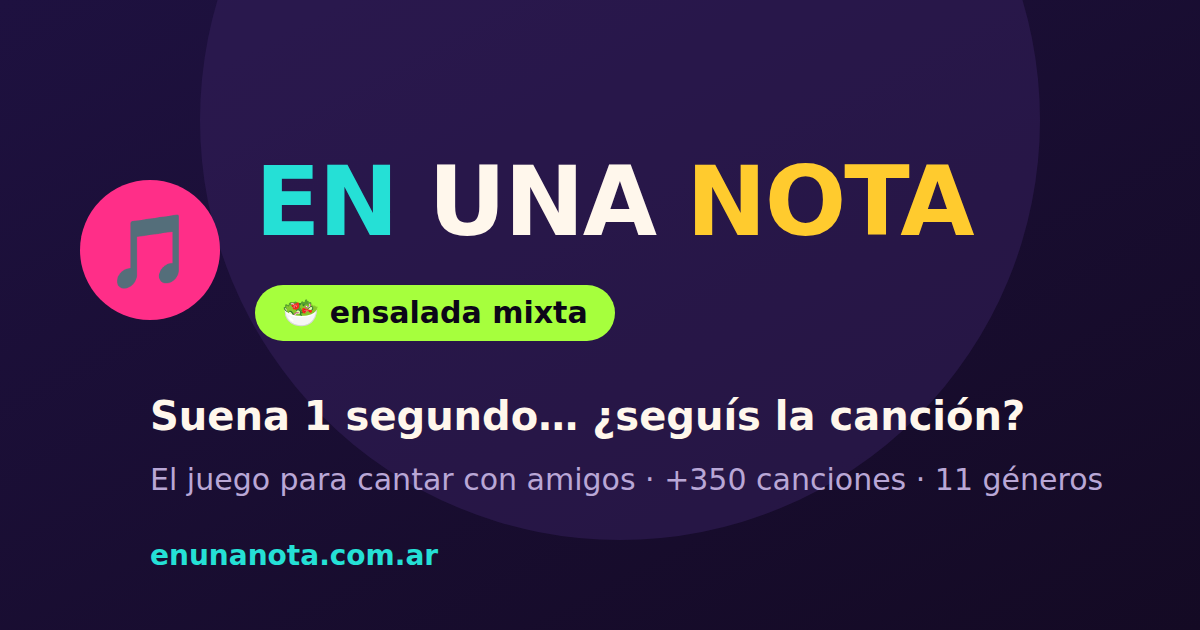
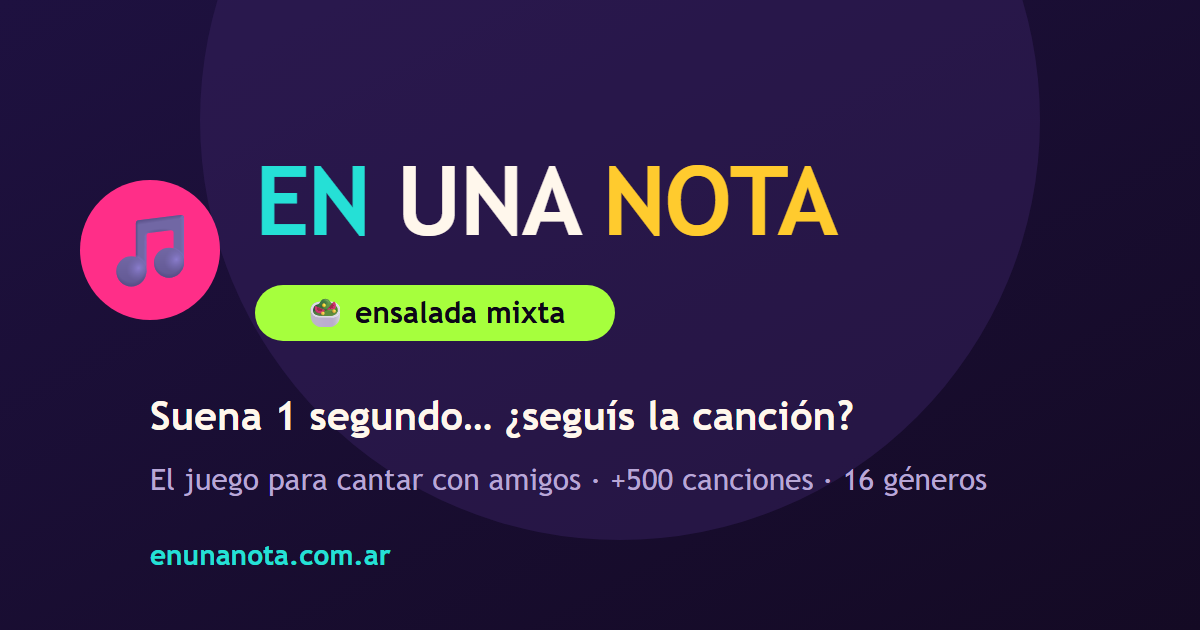
Sumar cinco playlists: Infantiles, Pop Nacional, Boy Bands, Cachengue y K-Pop
Pasan de 11 a 16 géneros y de +350 a +500 canciones. Se actualizan los
números en el README, las meta y los datos estructurados, las preguntas
frecuentes y la imagen de OpenGraph.

diff --git a/src/data.js b/src/data.js
@@ -377,4 +377,171 @@ export const GENRES = [
     ["Que Nadie Sepa Mi Sufrir","Soledad","0xdW1qC-2vg"],
     ["La Nochera","Los Chalchaleros","SP0h7ZmjeGQ"],
   ]},
+  { id:"infantiles", name:"Infantiles", em:"🧸", songs:[
+    ["Manuelita","María Elena Walsh","D4HchTy42_c"],
+    ["El Reino del Revés","María Elena Walsh","6wNtrOSvSqg"],
+    ["La vaca estudiosa","María Elena Walsh","Mt_GHyfq2wY"],
+    ["Canción del jacarandá","María Elena Walsh","qBuV_EzjRCI"],
+    ["La reina Batata","María Elena Walsh","5okeTCGhad8"],
+    ["En el país de Nomeacuerdo","María Elena Walsh","Re0qOc06ji4"],
+    ["Twist del Mono Liso","María Elena Walsh","iVsdJ6SMWlI"],
+    ["Canción de tomar el té","María Elena Walsh","Cx1vGU-utT4"],
+    ["El pulpo cocinero","Canticuénticos","4g3Zj-rvv4k"],
+    ["Cumbia del monstruo","Canticuénticos","TqtL_r-7LAI"],
+    ["Va a llover","Canticuénticos","op5XHJdBIwg"],
+    ["Chu chu ua","Piñón Fijo","VsDD-AAUwS0"],
+    ["Vocales que son cinco","Piñón Fijo","mwMbNsRZS_I"],
+    ["Me muevo para aquí","Diego Topa","BBEMtbfvUV8"],
+    ["El sapo no se lava el pie","El Payaso Plim Plim","OpBKfxvidyM"],
+    ["Ilarié","Xuxa","KxbjOuRJeWc"],
+    ["Cumpleaños feliz","Parchís","wGpJ9xv7LwY"],
+    ["Hola don Pepito, hola don José","Gaby, Fofó y Miliki","1zaCmh4DwhQ"],
+    ["Había una vez un circo","Gaby, Fofó y Miliki","7TxjX3oGI_M"],
+    ["La gallina Turuleca","Gaby, Fofó y Miliki","ybF3IVbV1tc"],
+    ["La vaca Lola","La Granja de Zenón","4PXoKuXAWFI"],
+    ["El pollito pío","Pulcino Pio","57exIXuPdtY"],
+    ["Soy una taza","CantaJuego","wXnNJvyYjrM"],
+    ["La vecindad del Chavo","El Chavo del 8","0AR-OIbxrUQ"],
+    ["Cha-La Head-Cha-La (Dragon Ball Z)","Adrián Barba","cslLhxL61vg"],
+    ["Tema de Pokémon (¡Atrápalos ya!)","Pokémon","YlR3FiXp99k"],
+    ["Te quiero yo","Barney","V24UKLTQ2HQ"],
+    ["Los opuestos","Pim Pau","M49tP6T1eMw"],
+    ["Juguemos en el bosque","El Payaso Plim Plim","-sdV9uESOlU"],
+    ["Susanita","Miliki","fOOEu9ym90E"],
+  ]},
+  { id:"popnac", name:"Pop Nacional 🇦🇷", em:"💿", songs:[
+    ["Don","Miranda!","32DOcN9A0TQ"],
+    ["Yo te diré","Miranda!","AQRFs-JttnM"],
+    ["Perfecta","Miranda!","x432t2voAXw"],
+    ["Tu misterioso alguien","Miranda!","yfzp3LplRew"],
+    ["Ciudad mágica","Tan Biónica","0d_yokJsjCY"],
+    ["Beautiful","Tan Biónica","ywyFAmrpKMw"],
+    ["Obsesionario en La mayor","Tan Biónica","t-siIWTtTdU"],
+    ["La melodía de Dios","Tan Biónica","jgNRKk_MWm0"],
+    ["Oncemil","Abel Pintos","NKG-8HY2GVA"],
+    ["Sin principio ni final","Abel Pintos","amHpLT0xCzg"],
+    ["Motivos","Abel Pintos","x_ZOACDZlYQ"],
+    ["Amo","Axel","zSebyN0EZD0"],
+    ["Te voy a amar","Axel","KJC3TGwG8jw"],
+    ["Como tú","Luciano Pereyra","rlH_d0HZJv0"],
+    ["Enséñame a vivir sin ti","Luciano Pereyra","plf48mLqdJs"],
+    ["Nada fue un error","Coti ft. Andrés Calamaro","f3odw15MsJI"],
+    ["Antes que ver el sol","Coti ft. Dani Martín","3Jhfbvqzhg0"],
+    ["Andando","Diego Torres","zLk6rTUZJEs"],
+    ["Sueños","Diego Torres","ijy3TmMq6uk"],
+    ["Tratar de estar mejor","Diego Torres","v59rGCGtVnw"],
+    ["Cambio dolor","Natalia Oreiro","-LjoWL1MxyY"],
+    ["Tu veneno","Natalia Oreiro","qtQOnmfSRsY"],
+    ["Me muero de amor","Natalia Oreiro","7BzaxvScaMY"],
+    ["Guapas","Bandana","fxKZVGY-t3w"],
+    ["Llega la noche","Bandana","eJI0nlU9py8"],
+    ["Sweet Baby","Erreway","N_gvxYNAawY"],
+    ["Vamos al cielo","Erreway","16ZGFo-LBso"],
+    ["A bailar","Lali","uWam5F0n10k"],
+    ["Mil años luz","Lali","F_XG7-HHWqA"],
+    ["Disciplina","Lali","eU6Klg29lC4"],
+    ["Cupido","TINI","BjmYyub5J8k"],
+    ["Todo a pulmón","Alejandro Lerner","yB557r_ESTU"],
+    ["Me das cada día más","Valeria Lynch","QQpV1g2-Qns"],
+    ["La fuerza del engaño","Marcela Morelo","j4YHwiIAe8o"],
+  ]},
+  { id:"boybands", name:"Boy Bands y Pop 2000s", em:"🕺", songs:[
+    ["Everybody (Backstreet's Back)","Backstreet Boys","J47YIH1XCGE"],
+    ["As Long as You Love Me","Backstreet Boys","m8_t0L_CtVU"],
+    ["Larger than Life","Backstreet Boys","pjvQZzkeI_o"],
+    ["Bye Bye Bye","*NSYNC","fxHjlCBHuzA"],
+    ["It's Gonna Be Me","*NSYNC","dyDBxOiR4dc"],
+    ["...Baby One More Time","Britney Spears","ZXhrv3WL4X4"],
+    ["Oops!... I Did It Again","Britney Spears","wsHbHR3Os6U"],
+    ["Toxic","Britney Spears","tVdr_JWmnsA"],
+    ["Wannabe","Spice Girls","tscL_I2v7pU"],
+    ["Genie in a Bottle","Christina Aguilera","yz4me7Vwr1w"],
+    ["Burnin' Up","Jonas Brothers","SPGMAjkOsLg"],
+    ["The Best of Both Worlds","Hannah Montana","pAWseFS4eAk"],
+    ["Breaking Free","High School Musical","08NXKsXK7XU"],
+    ["We're All in This Together","High School Musical","Bz73c8rz4QA"],
+    ["Complicated","Avril Lavigne","DTtb9rt1tnk"],
+    ["Girlfriend","Avril Lavigne","g0TiuFwX0r8"],
+    ["Sk8er Boi","Avril Lavigne","UYocLBXr7hQ"],
+    ["What Makes You Beautiful","One Direction","d57qSDCxVA4"],
+    ["Story of My Life","One Direction","8M3Vlnu_i3c"],
+    ["Barbie Girl","Aqua","77zog6Up_Yg"],
+    ["Party in the U.S.A.","Miley Cyrus","7ARXrfGbQaI"],
+    ["Baby","Justin Bieber","GqWYJT-iMTw"],
+    ["Hot n Cold","Katy Perry","C-jAPrdc3PI"],
+    ["Poker Face","Lady Gaga","oG-4Uvhm4lI"],
+    ["I Gotta Feeling","Black Eyed Peas","Wnn6M1nNiKQ"],
+    ["Since U Been Gone","Kelly Clarkson","p0BiGek2bKA"],
+    ["Umbrella","Rihanna","xXD5tltX9Pg"],
+    ["Beautiful Soul","Jesse McCartney","gFP0m8pRtRs"],
+    ["Don't Cha","The Pussycat Dolls ft. Busta Rhymes","0IGdk5Xr4vc"],
+    ["My Love","Westlife","vKwowKeEv5w"],
+    ["Come Clean","Hilary Duff","RDLNmailOwI"],
+    ["Say My Name","Destiny's Child","KzMw3Pp0aqg"],
+    ["Boom, Boom, Boom, Boom!!","Vengaboys","gM65SDMiXBE"],
+  ]},
+  { id:"cachengue", name:"Cachengue y RKT", em:"🔊", songs:[
+    ["L-Gante: BZRP #38","Bizarrap","b-mUsAXh6wI"],
+    ["Malianteo 420","L-Gante","LWXv8qSV4Ow"],
+    ["Una foto (Remix)","Mesita, Nicki Nicole, Tiago PZK, Emilia","9C5JPrN5xQY"],
+    ["Tamo chelo","El Noba","0sBPRJ5GHuM"],
+    ["Butakera","La Joaqui, Alan Gomez, El Noba","iGwJ8TytOAU"],
+    ["PICA","El Noba, La Joaqui","dP-5w3vnoaU"],
+    ["Pa' la Selección","La T y La M","gCVqd5R5ZwU"],
+    ["Amor de vago","La T y La M, Malandro","MDbwr3YtTZc"],
+    ["Tu jardín con enanitos","Roze, Max Carra, Valen, Ramky","ZsSi6FHxY8Q"],
+    ["Turreo Sessions #5","DJ Tao, Kaleb Di Masi","WXJKabqqxOY"],
+    ["Turreo Sessions #7","DJ Tao, El Noba","oQTBi-f3ofw"],
+    ["Turreo Sessions #22","DJ Tao, Roze","6nXMYkyl2wM"],
+    ["Tirate un paso","Los Wachiturros","9iKe5EwLrDo"],
+    ["Bailan rochas y chetas","Nene Malo","ebmes8Ci7_0"],
+    ["Amigos con derecho","Nene Malo","ow6kBjytnMI"],
+    ["Mi nena Facebook","Los Nota Lokos","TTVaU8fOWc8"],
+    ["Wanda Nara","La Joaqui, Martín Vegas","Ccu3QU2Mg6g"],
+    ["Te vi","La Joaqui, Callejero Fino","DO0FYwe86D4"],
+    ["Saveiro","Perro Primo, La Joaqui, DT.Bilardo","Nh7bb55tZQU"],
+    ["¿Y pa la wacha loca?","Gusty DJ, La Joaqui, L-Gante","gnMw8MSmwKs"],
+    ["Uno más uno (Remix)","L-Gante, Seba TC, DT.Bilardo","GMYqHRFfNbM"],
+    ["Yendo no, llegando","Perro Primo, El Noba","UWXgK-l0bag"],
+    ["Dubai","Mesita","aelBPjXExIs"],
+    ["Que se mueran los feos","Mala Fama","PSLDJf4wkRM"],
+    ["Llegamos los Pibes Chorros","Pibes Chorros","vmMu1pBYUCk"],
+    ["Bar","TINI, L-Gante","uWb2EtOFEBM"],
+    ["Cumbia piola","El Noba","QLCnTO2Qj-c"],
+    ["Hoy juega la Argentina","La T y La M","j0ZgqLeye2I"],
+  ]},
+  { id:"kpop", name:"K-Pop 🇰🇷", em:"💜", songs:[
+    ["Dynamite","BTS","HaEYUJ2aRHs"],
+    ["Butter","BTS","NNCBq0JHXsU"],
+    ["Boy With Luv","BTS","Q-erYa8cwnc"],
+    ["DNA","BTS","IfemyZEhfpY"],
+    ["Fake Love","BTS","NT8ePWlgx_Y"],
+    ["DDU-DU DDU-DU","BLACKPINK","IPzouyj7FLA"],
+    ["How You Like That","BLACKPINK","8mA6jIeojnk"],
+    ["Kill This Love","BLACKPINK","z7e54L8usac"],
+    ["Pink Venom","BLACKPINK","4N15045PHEA"],
+    ["Gangnam Style","PSY","4AgDYTuZWOw"],
+    ["Fantastic Baby","BIGBANG","oM4KBLQRCM8"],
+    ["Gee","Girls' Generation","qizghQs4K6E"],
+    ["TT","TWICE","___h2czNhe0"],
+    ["Fancy","TWICE","j4OrZV_GAsI"],
+    ["Love Shot","EXO","KmRqHwJrTKQ"],
+    ["God's Menu","Stray Kids","GyCAzYm1zvk"],
+    ["MANIAC","Stray Kids","VG4lpTHuytc"],
+    ["Hype Boy","NewJeans","ghrlZIMDzbM"],
+    ["Super Shy","NewJeans","0c7zGU2C2mM"],
+    ["Red Flavor","Red Velvet","BLavT7w4R9I"],
+    ["Psycho","Red Velvet","PyyT5tHbOLw"],
+    ["Next Level","aespa","tkzYyEp4zB4"],
+    ["Supernova","aespa","LCIs3JXb5Aw"],
+    ["Dalla Dalla","ITZY","miqQAzOXPBo"],
+    ["Love Dive","IVE","hh5GKVa8VtM"],
+    ["Antifragile","LE SSERAFIM","SZiwpL62to8"],
+    ["Tomboy","(G)I-DLE","aFoqCI75WoY"],
+    ["Seven","Jungkook ft. Latto","Vs64cZbeY88"],
+    ["APT.","ROSÉ, Bruno Mars","DiTd771WumE"],
+    ["Money","LISA","4YSHPGn9-LM"],
+    ["Very Nice","SEVENTEEN","s3CjsNjiKyc"],
+    ["Like Crazy","Jimin","5lpppPsc2n4"],
+  ]},
 ];

diff --git a/index.html b/index.html
@@ -6,7 +6,7 @@
        seguros (muesca y barra de gestos) con env(safe-area-inset-*) -->
   <meta name="viewport" content="width=device-width, initial-scale=1, viewport-fit=cover" />
   <title>En una nota · Ensalada mixta — juego para cantar con amigos</title>
-  <meta name="description" content="Juego gratis para cantar con amigos: suena un segundo de una canción al azar, se corta y tenés que seguir cantando la que sigue. Más de 350 canciones en 11 géneros (rock, cumbia, pop, folklore y más)." />
+  <meta name="description" content="Juego gratis para cantar con amigos: suena un segundo de una canción al azar, se corta y tenés que seguir cantando la que sigue. Más de 500 canciones en 16 géneros (rock, cumbia, pop, RKT, K-pop, infantiles y más)." />
   <meta name="keywords" content="en una nota, juego para cantar, adivinar canciones, karaoke, juego con amigos, juntada con amigos, ensalada mixta, música, previa, asado, argentina" />
   <meta name="author" content="Juan Paladea" />
   <meta name="robots" content="index, follow" />
@@ -20,7 +20,7 @@
   <meta property="og:type" content="website" />
   <meta property="og:site_name" content="En una nota · Ensalada mixta" />
   <meta property="og:title" content="En una nota · Ensalada mixta — juego para cantar con amigos" />
-  <meta property="og:description" content="Suena un segundo de una canción al azar, se corta y tenés que seguir cantando la que sigue. +350 canciones en 11 géneros. ¡Gratis!" />
+  <meta property="og:description" content="Suena un segundo de una canción al azar, se corta y tenés que seguir cantando la que sigue. +500 canciones en 16 géneros. ¡Gratis!" />
   <meta property="og:url" content="https://enunanota.com.ar/" />
   <!-- PNG: WhatsApp, Facebook e Instagram no muestran previews en SVG -->
   <meta property="og:image" content="https://enunanota.com.ar/og.png" />
@@ -33,7 +33,7 @@
   <!-- Twitter -->
   <meta name="twitter:card" content="summary_large_image" />
   <meta name="twitter:title" content="En una nota · Ensalada mixta" />
-  <meta name="twitter:description" content="Juego para cantar con amigos: suena un segundo, se corta y seguís la canción. +350 temas en 11 géneros." />
+  <meta name="twitter:description" content="Juego para cantar con amigos: suena un segundo, se corta y seguís la canción. +500 temas en 16 géneros." />
   <meta name="twitter:image" content="https://enunanota.com.ar/og.png" />
 
   <script type="application/ld+json">
@@ -42,7 +42,7 @@
     "@type": "WebApplication",
     "name": "En una nota · Ensalada mixta",
     "url": "https://enunanota.com.ar/",
-    "description": "Juego gratis para cantar con amigos: suena un segundo de una canción al azar, se corta y hay que seguir cantando la que sigue. Más de 350 canciones en 11 géneros.",
+    "description": "Juego gratis para cantar con amigos: suena un segundo de una canción al azar, se corta y hay que seguir cantando la que sigue. Más de 500 canciones en 16 géneros.",
     "applicationCategory": "GameApplication",
     "operatingSystem": "Web",
     "inLanguage": "es",
@@ -52,7 +52,7 @@
     "browserRequirements": "Requiere un navegador moderno con JavaScript",
     "screenshot": "https://enunanota.com.ar/og.png",
     "featureList": [
-      "Más de 350 canciones en 11 géneros",
+      "Más de 500 canciones en 16 géneros",
       "Juego por equipos con puntaje",
       "Reproducción de 1 segundo y revelación de la canción",
       "Cargá tus propios audios y jugá sin internet"
@@ -79,7 +79,7 @@
       {
         "@type": "Question",
         "name": "¿Cuántas canciones tiene?",
-        "acceptedAnswer": { "@type": "Answer", "text": "Más de 350 canciones en 11 playlists: rock nacional, cumbia y cuarteto, pop y reggaetón, internacional, clásicos, Disney, fiesta, rock en español, trap urbano, baladas y folklore argentino." }
+        "acceptedAnswer": { "@type": "Answer", "text": "Más de 500 canciones en 16 playlists: rock nacional, cumbia y cuarteto, pop y reggaetón, internacional, clásicos, Disney, fiesta, rock en español, trap urbano, baladas, folklore argentino, infantiles, pop nacional, boy bands y pop 2000s, cachengue y RKT, y K-pop." }
       },
       {
         "@type": "Question",
@@ -157,7 +157,7 @@
         se corta, y hay que <b>seguir cantando la parte que sigue</b>. Esta versión sortea los temas
         sola y los mantiene tapados, así que <b>nadie sabe qué suena</b> hasta que se revela.</p>
       <ol>
-        <li>Elegí los <b>géneros</b> (rock nacional, cumbia, pop, folklore, Disney y más).</li>
+        <li>Elegí los <b>géneros</b> (rock nacional, cumbia, pop, folklore, RKT, K-pop, infantiles y más).</li>
         <li>Cargá los <b>equipos</b> con sus nombres.</li>
         <li>Tocá <b>reproducir 1 segundo</b>: suena y se corta solo.</li>
         <li>El equipo que grita <b>“¡YO!”</b> primero canta la parte que sigue.</li>
@@ -172,9 +172,10 @@
       </details>
       <details class="faq">
         <summary>¿Cuántas canciones tiene?</summary>
-        <p>Más de 350 canciones repartidas en 11 playlists: rock nacional, cumbia y cuarteto,
+        <p>Más de 500 canciones repartidas en 16 playlists: rock nacional, cumbia y cuarteto,
           pop y reggaetón, internacional, clásicos, Disney, fiesta, rock en español, trap urbano,
-          baladas y folklore argentino. Además podés sumar las tuyas.</p>
+          baladas, folklore argentino, infantiles, pop nacional, boy bands y pop 2000s,
+          cachengue y RKT, y K-pop. Además podés sumar las tuyas.</p>
       </details>
       <details class="faq">
         <summary>¿Se pueden usar mis propias canciones?</summary>

diff --git a/README.md b/README.md
@@ -9,9 +9,10 @@ Después se **revela** la canción y el grupo decide si la pegó.
 
 ## ✨ Características
 
-- **11 playlists** con +350 canciones precargadas (Rock Nacional, Cumbia y Cuarteto,
+- **16 playlists** con +500 canciones precargadas (Rock Nacional, Cumbia y Cuarteto,
   Pop/Reggaetón, Internacional, Clásicos, Disney, Fiesta, Rock en Español, Trap/Urbano,
-  Baladas y Folklore). Se pueden combinar géneros.
+  Baladas, Folklore, Infantiles, Pop Nacional, Boy Bands y Pop 2000s, Cachengue y RKT y
+  K-Pop). Se pueden combinar géneros.
 - Reproductor **oculto**: la canción suena pero no se ve el título hasta revelarla.
 - **Cortar / revelar** con control preciso (pausa y reanuda en el segundo exacto).
 - Al revelar se muestra la **imagen de la canción** (miniatura del video) debajo del título,
